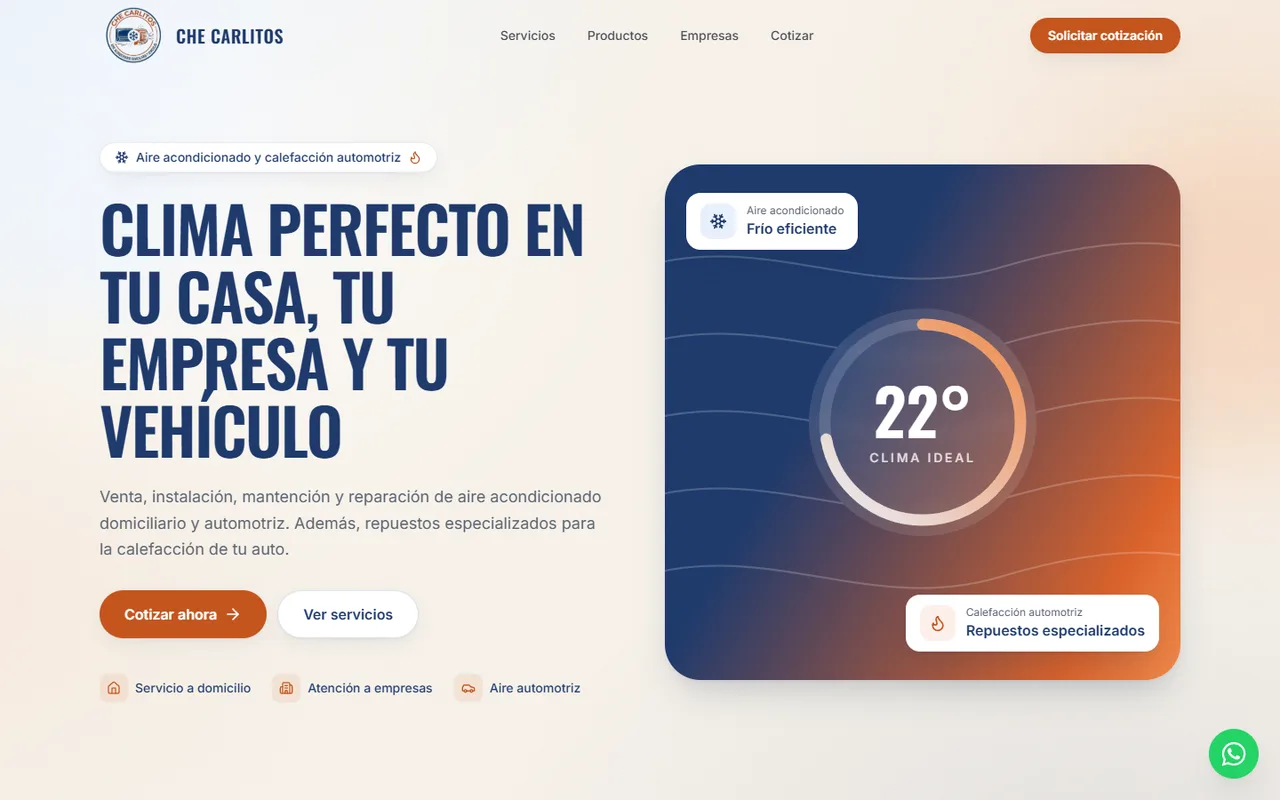
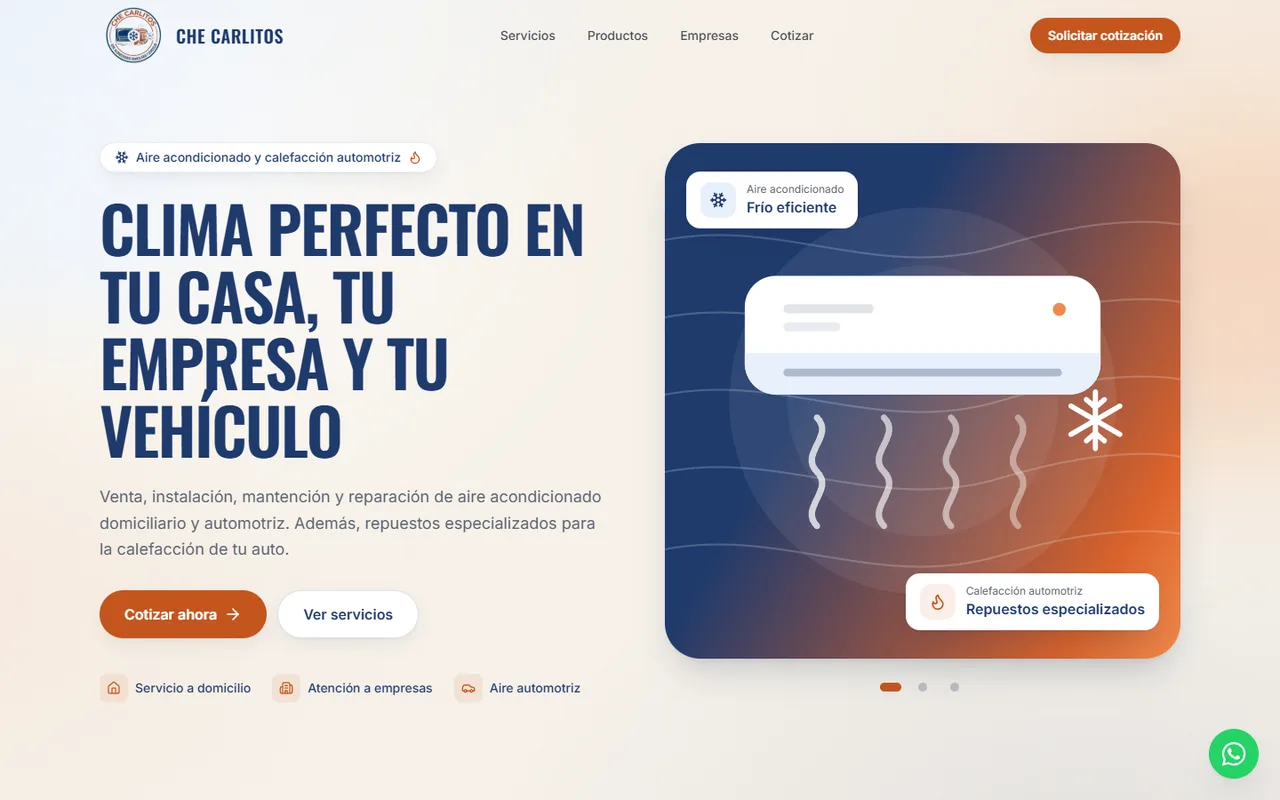
Hero: carrusel de imágenes de aire acondicionado (hogar, auto y condensadora)

Changed region(s): [[0.5, 0.1562, 0.9375, 0.6562], [0.5, 0.6875, 0.9375, 0.875], [0.625, 0.6875, 0.6562, 0.7188]]

diff --git a/components/HeroSlideshow.tsx b/components/HeroSlideshow.tsx
@@ -1,0 +1,106 @@
+"use client";
+
+import { AnimatePresence, motion } from "framer-motion";
+import { Pause, Play } from "lucide-react";
+import Image from "next/image";
+import { useEffect, useState } from "react";
+import { HERO } from "@/lib/content";
+
+const INTERVAL_MS = 5000;
+
+/**
+ * Imágenes del hero que van cambiando con un fundido suave.
+ * - Se pausa al pasar el mouse o al enfocar los controles, y con el botón de pausa.
+ * - Si el usuario tiene activado "reducir movimiento", no avanza sola (se cambia con los puntos).
+ * Las imágenes y sus textos alternativos se editan en lib/content.ts → HERO.slides.
+ */
+export function HeroSlideshow() {
+  const slides = HERO.slides;
+  const [index, setIndex] = useState(0);
+  const [paused, setPaused] = useState(false);
+  const [hovered, setHovered] = useState(false);
+  const [reduceMotion, setReduceMotion] = useState(false);
+
+  useEffect(() => {
+    const query = window.matchMedia("(prefers-reduced-motion: reduce)");
+    const update = () => setReduceMotion(query.matches);
+    update();
+    query.addEventListener("change", update);
+    return () => query.removeEventListener("change", update);
+  }, []);
+
+  const autoplay = !paused && !hovered && !reduceMotion && slides.length > 1;
+
+  useEffect(() => {
+    if (!autoplay) return;
+    const timer = window.setInterval(() => {
+      if (!document.hidden) setIndex((i) => (i + 1) % slides.length);
+    }, INTERVAL_MS);
+    return () => window.clearInterval(timer);
+  }, [autoplay, slides.length]);
+
+  const slide = slides[index];
+
+  return (
+    <div
+      role="region"
+      aria-roledescription="carrusel"
+      aria-label="Imágenes de nuestros servicios"
+      className="absolute inset-0"
+      onMouseEnter={() => setHovered(true)}
+      onMouseLeave={() => setHovered(false)}
+    >
+      <div className="absolute inset-0 overflow-hidden rounded-[2.5rem]">
+        <AnimatePresence initial={false}>
+          <motion.div
+            key={slide.src}
+            className="absolute inset-0"
+            initial={reduceMotion ? { opacity: 0 } : { opacity: 0, scale: 1.06 }}
+            animate={{ opacity: 1, scale: 1 }}
+            exit={{ opacity: 0 }}
+            transition={{ duration: reduceMotion ? 0.2 : 0.9, ease: "easeOut" }}
+          >
+            <Image
+              src={slide.src}
+              alt={slide.alt}
+              fill
+              priority={index === 0}
+              sizes="(min-width: 1024px) 560px, (min-width: 640px) 448px, 90vw"
+              className={slide.fit === "contain" ? "object-contain" : "object-cover"}
+            />
+          </motion.div>
+        </AnimatePresence>
+      </div>
+
+      {/* Controles: puntos para elegir imagen y botón de pausa (debajo de la imagen) */}
+      <div className="absolute inset-x-0 -bottom-12 flex items-center justify-center gap-1">
+        {slides.map((s, i) => (
+          <button
+            key={s.src}
+            type="button"
+            onClick={() => setIndex(i)}
+            aria-label={`Ver imagen ${i + 1} de ${slides.length}`}
+            aria-current={i === index}
+            className="group flex h-8 w-8 items-center justify-center"
+          >
+            <span
+              className={`block h-2.5 rounded-full transition-all duration-300 ${
+                i === index ? "w-6 bg-brand-orange-dark" : "w-2.5 bg-brand-navy/25 group-hover:bg-brand-navy/50"
+              }`}
+            />
+          </button>
+        ))}
+        {!reduceMotion && slides.length > 1 && (
+          <button
+            type="button"
+            onClick={() => setPaused((p) => !p)}
+            aria-label={paused ? "Reanudar el cambio de imágenes" : "Pausar el cambio de imágenes"}
+            className="ml-1 flex h-8 w-8 items-center justify-center rounded-full text-brand-navy/60 transition-colors hover:bg-brand-navy/5 hover:text-brand-navy"
+          >
+            {paused ? <Play className="h-3.5 w-3.5" aria-hidden="true" /> : <Pause className="h-3.5 w-3.5" aria-hidden="true" />}
+          </button>
+        )}
+      </div>
+    </div>
+  );
+}

diff --git a/components/Hero.tsx b/components/Hero.tsx
@@ -1,4 +1,5 @@
 import { ArrowRight, Flame, Snowflake } from "lucide-react";
+import { HeroSlideshow } from "@/components/HeroSlideshow";
 import { Reveal } from "@/components/ui/Reveal";
 import { buttonStyles } from "@/components/ui/button";
 import { HERO } from "@/lib/content";
@@ -60,13 +61,13 @@ export function Hero() {
 }
 
 /**
- * Visual frío/calor hecho con SVG y degradados.
- * FOTO: aquí se puede reemplazar (o complementar) por una foto real de una instalación,
- * por ejemplo con <Image src="/fotos/hero.jpg" ... /> dentro del mismo contenedor.
+ * Visual del hero: marco con degradado frío → calor, imágenes que van cambiando
+ * (HeroSlideshow) y dos tarjetas flotantes fijas.
+ * FOTO: las imágenes se cambian en lib/content.ts → HERO.slides.
  */
 function HeroVisual() {
   return (
-    <div className="relative mx-auto aspect-[4/5] w-full max-w-md sm:aspect-square lg:max-w-none">
+    <div className="relative mx-auto mb-12 aspect-[4/5] w-full max-w-md sm:aspect-square lg:max-w-none">
       <div className="bg-cold-warm absolute inset-0 rounded-[2.5rem] shadow-lift" />
 
       {/* Patrón sutil de líneas de aire */}
@@ -76,25 +77,8 @@ function HeroVisual() {
         ))}
       </svg>
 
-      {/* Termostato central */}
-      <div className="absolute inset-0 flex items-center justify-center">
-        <div className="relative flex h-44 w-44 items-center justify-center rounded-full bg-white/10 backdrop-blur-sm sm:h-64 sm:w-64">
-          <svg aria-hidden="true" viewBox="0 0 200 200" className="absolute inset-0 h-full w-full -rotate-90">
-            <defs>
-              <linearGradient id="dial" x1="0" y1="0" x2="1" y2="1">
-                <stop offset="0" stopColor="#E8F0FA" />
-                <stop offset="1" stopColor="#F08A4B" />
-              </linearGradient>
-            </defs>
-            <circle cx="100" cy="100" r="86" fill="none" stroke="white" strokeOpacity="0.15" strokeWidth="10" />
-            <circle cx="100" cy="100" r="86" fill="none" stroke="url(#dial)" strokeWidth="10" strokeLinecap="round" strokeDasharray="540" strokeDashoffset="150" />
-          </svg>
-          <div className="text-center text-white">
-            <p className="font-display text-6xl font-semibold leading-none sm:text-7xl">22°</p>
-            <p className="mt-2 text-sm font-medium uppercase tracking-[0.2em] text-white/80">Clima ideal</p>
-          </div>
-        </div>
-      </div>
+      {/* Imágenes que van cambiando */}
+      <HeroSlideshow />
 
       {/* Tarjetas flotantes */}
       <div className="absolute left-4 top-6 flex items-center gap-3 rounded-2xl bg-white px-4 py-3 shadow-lift sm:left-6 sm:top-8">

diff --git a/lib/content.ts b/lib/content.ts
@@ -31,6 +31,18 @@ export const NAV_LINKS = [
   { href: "#cotizar", label: "Cotizar" },
 ] as const;
 
+type HeroSlide = { src: string; alt: string; fit?: "cover" | "contain" };
+
+// Imágenes que van cambiando en el hero (cada 5 segundos).
+// FOTO: reemplaza estas ilustraciones por fotos reales. Guarda las fotos en /public/hero/
+// (idealmente cuadradas, de 1200×1200 px, en .jpg o .webp) y cambia aquí la ruta y el texto alternativo.
+// "fit": "cover" llena todo el marco (ideal para fotos); "contain" muestra la imagen completa (ilustraciones).
+const HERO_SLIDES: HeroSlide[] = [
+  { src: "/hero/aire-hogar.svg", fit: "contain", alt: "Equipo de aire acondicionado split instalado en un muro, entregando aire frío" },
+  { src: "/hero/aire-auto.svg", fit: "contain", alt: "Automóvil con el aire acondicionado funcionando" },
+  { src: "/hero/condensadora.svg", fit: "contain", alt: "Unidad exterior (condensadora) de un aire acondicionado" },
+];
+
 export const HERO = {
   eyebrow: "Aire acondicionado y calefacción automotriz",
   title: "Clima perfecto en tu casa, tu empresa y tu vehículo",
@@ -43,6 +55,7 @@ export const HERO = {
     { icon: Building2, label: "Atención a empresas" },
     { icon: Car, label: "Aire automotriz" },
   ],
+  slides: HERO_SLIDES,
 };
 
 type Card = { icon: LucideIcon; title: string; description: string };

diff --git a/README.md b/README.md
@@ -59,6 +59,7 @@ Sitio web oficial: una landing page rápida, accesible y orientada a conseguir s
 | 🎯 **Cotizar en un clic** | Cada producto tiene su botón "Cotizar", que lleva al formulario con el servicio ya seleccionado. |
 | 🛡 **Anti-spam** | Campo trampa (honeypot) invisible y límite de solicitudes por IP. |
 | 💬 **WhatsApp siempre visible** | Botón flotante con mensaje predefinido, y una flecha para volver al inicio que aparece al bajar por la página. |
+| 🖼 **Carrusel en el hero** | Tres imágenes (hogar, auto y equipo exterior) que cambian con un fundido suave, con pausa y navegación accesibles. |
 | 🚗 **Detalles de marca** | Cursor con forma de auto que deja una brisa de aire, más intensa mientras más rápido se mueve, y un brillo de fondo sutil con los colores del logo. |
 | 📱 **100 % responsivo** | Probado de 320 px (celulares pequeños) a 2560 px (monitores 2K). |
 | ♿ **Accesible** | Contraste AA, foco visible, etiquetas en todos los campos, navegación por teclado y respeto por "reducir movimiento". |
@@ -227,6 +228,16 @@ Los textos y datos están separados del diseño: **no necesitas tocar los compon
    ```
    Esto regenera `app/icon.png` (favicon) y `app/apple-icon.png` (ícono de iPhone). El header, el footer y la imagen para redes sociales usan el logo automáticamente.
 
+### Imágenes del hero (carrusel)
+
+El hero muestra tres imágenes que cambian cada 5 segundos con un fundido suave. Se pausa al pasar el mouse o con el botón de pausa, y no avanza sola si el usuario tiene activado "reducir movimiento". Por ahora son **ilustraciones provisorias** (split de muro, auto y condensadora). Para usar fotos reales:
+
+1. Guarda las fotos en `public/hero/` (idealmente cuadradas, de 1200×1200 px, en `.jpg` o `.webp`).
+2. En [`lib/content.ts`](lib/content.ts), dentro de `HERO_SLIDES`, cambia `src` por la ruta de la foto y `alt` por una descripción breve.
+3. Usa `fit: "cover"` para que la foto llene el marco (o quita `fit`, que por defecto es `cover`).
+
+Puedes agregar o quitar imágenes de la lista: los puntos de navegación se ajustan solos.
+
 ### Fotos
 
 Busca los comentarios `FOTO:` en `components/`: marcan los lugares pensados para fotos reales (hero, productos, hogar/vehículos). Guarda las imágenes en `public/fotos/` y úsalas con el componente `<Image>` de `next/image`, que las optimiza solo.
@@ -297,7 +308,7 @@ flowchart LR
 ├── components/
 │   ├── Header.tsx  Hero.tsx  Services.tsx  Products.tsx  ServiceLines.tsx
 │   ├── Business.tsx  WhyUs.tsx  Process.tsx  QuoteForm.tsx  Footer.tsx
-│   ├── WhatsAppButton.tsx  BackToTop.tsx  CursorBreeze.tsx
+│   ├── HeroSlideshow.tsx  WhatsAppButton.tsx  BackToTop.tsx  CursorBreeze.tsx
 │   └── ui/                       # Piezas reutilizables (botones, títulos, animación…)
 ├── lib/
 │   ├── content.ts                # ✏ Todos los textos del sitio
